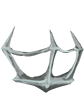
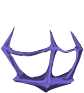
Kublet and something else
Kublette

Changed region(s): [[0.0, 0.3011, 1.0, 1.0]]

diff --git a/CollectorCode/Core/TorchheadMonsterModel.cs b/CollectorCode/Core/TorchheadMonsterModel.cs
@@ -7,6 +7,7 @@ using MegaCrit.Sts2.Core.Bindings.MegaSpine;
 using MegaCrit.Sts2.Core.Commands;
 using MegaCrit.Sts2.Core.Entities.Creatures;
 using MegaCrit.Sts2.Core.GameActions.Multiplayer;
+using MegaCrit.Sts2.Core.Localization;
 using MegaCrit.Sts2.Core.Models;
 using MegaCrit.Sts2.Core.Multiplayer;
 using MegaCrit.Sts2.Core.Platform;
@@ -30,6 +31,14 @@ public class TorchheadMonsterModel : CustomMonsterModel
 
     public override bool IsHealthBarVisible => Creature.IsAlive;
 
+    private static bool _isPink = false; 
+    public override LocString Title => ResolveTitle();
+
+    private LocString ResolveTitle()
+    {
+        return _isPink ? L10NMonsterLookup("COLLECTOR-TORCHHEAD_MONSTER_MODEL_PINK.name") : L10NMonsterLookup(Id.Entry + ".name");
+    }
+    
     protected override MonsterMoveStateMachine GenerateMoveStateMachine()
     {
         // Torchhead doesn't act through this state machine - the real attack fires from
@@ -70,8 +79,15 @@ public class TorchheadMonsterModel : CustomMonsterModel
     public override void SetupSkins(MegaSprite spine, MegaSkeleton skeleton)
     {
         var skinName = GetOwnerPlatformId() is { } id && PinkSkinPlayerHashes.Contains(HashPlayerId(id))
-            ? "pink"
-            : "standard";
+            ? "normal"
+            : "pink";
+        
+        //Now with name!
+        if (skinName is "pink")
+        {
+            _isPink = true;
+        }
+        
         skeleton.SetSkin(skeleton.GetData().FindSkin(skinName));
         skeleton.SetSlotsToSetupPose();
     }
